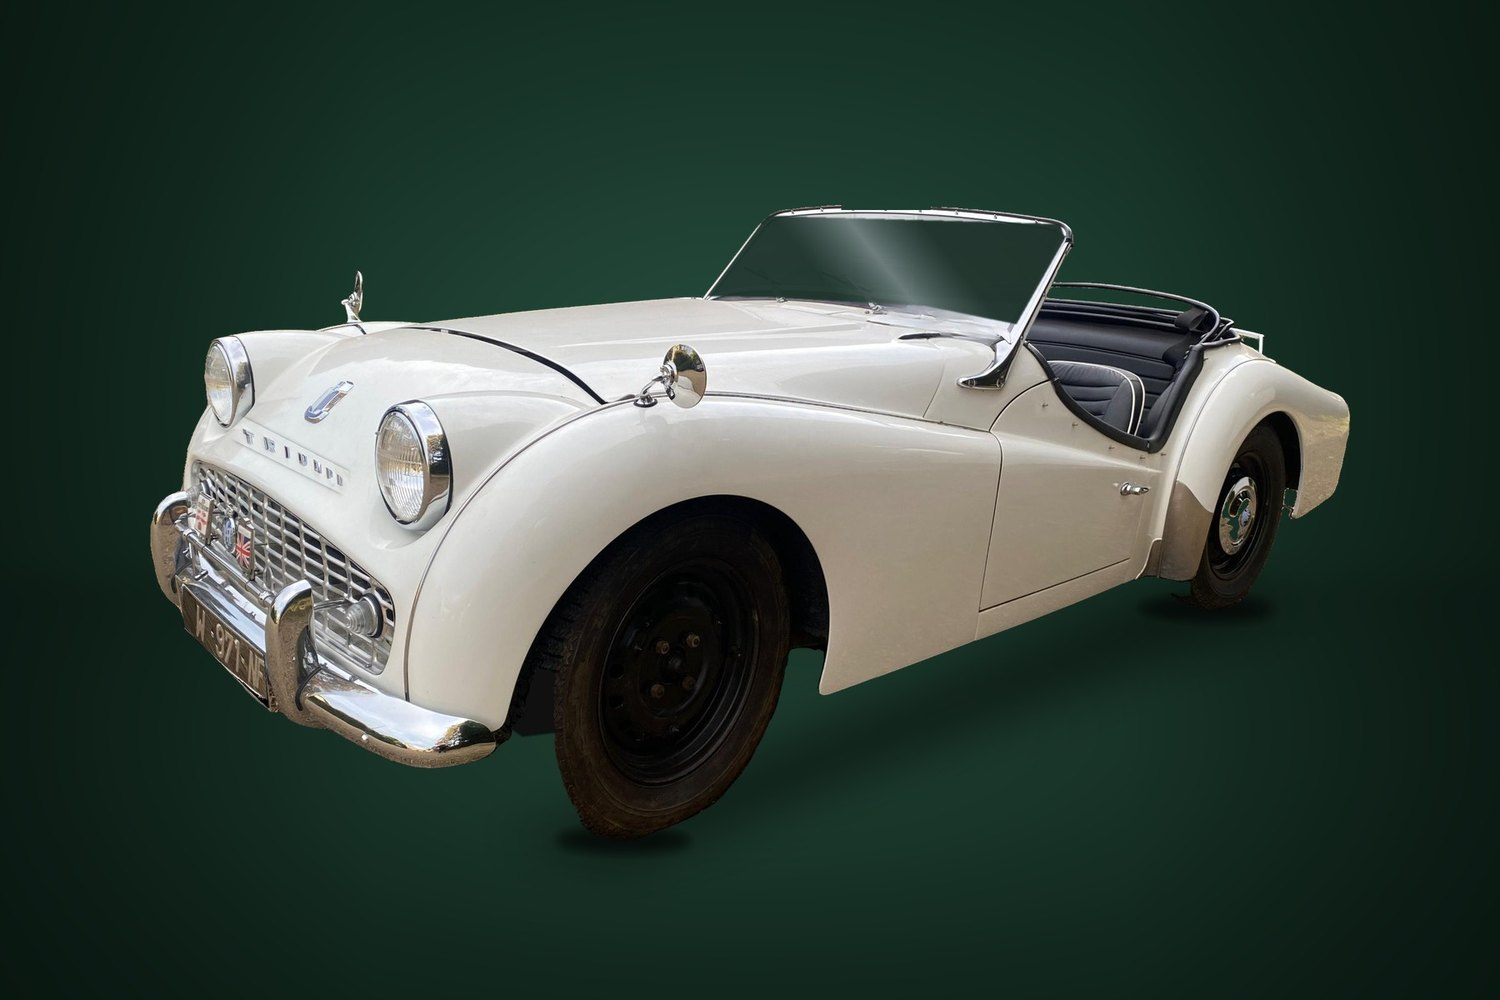
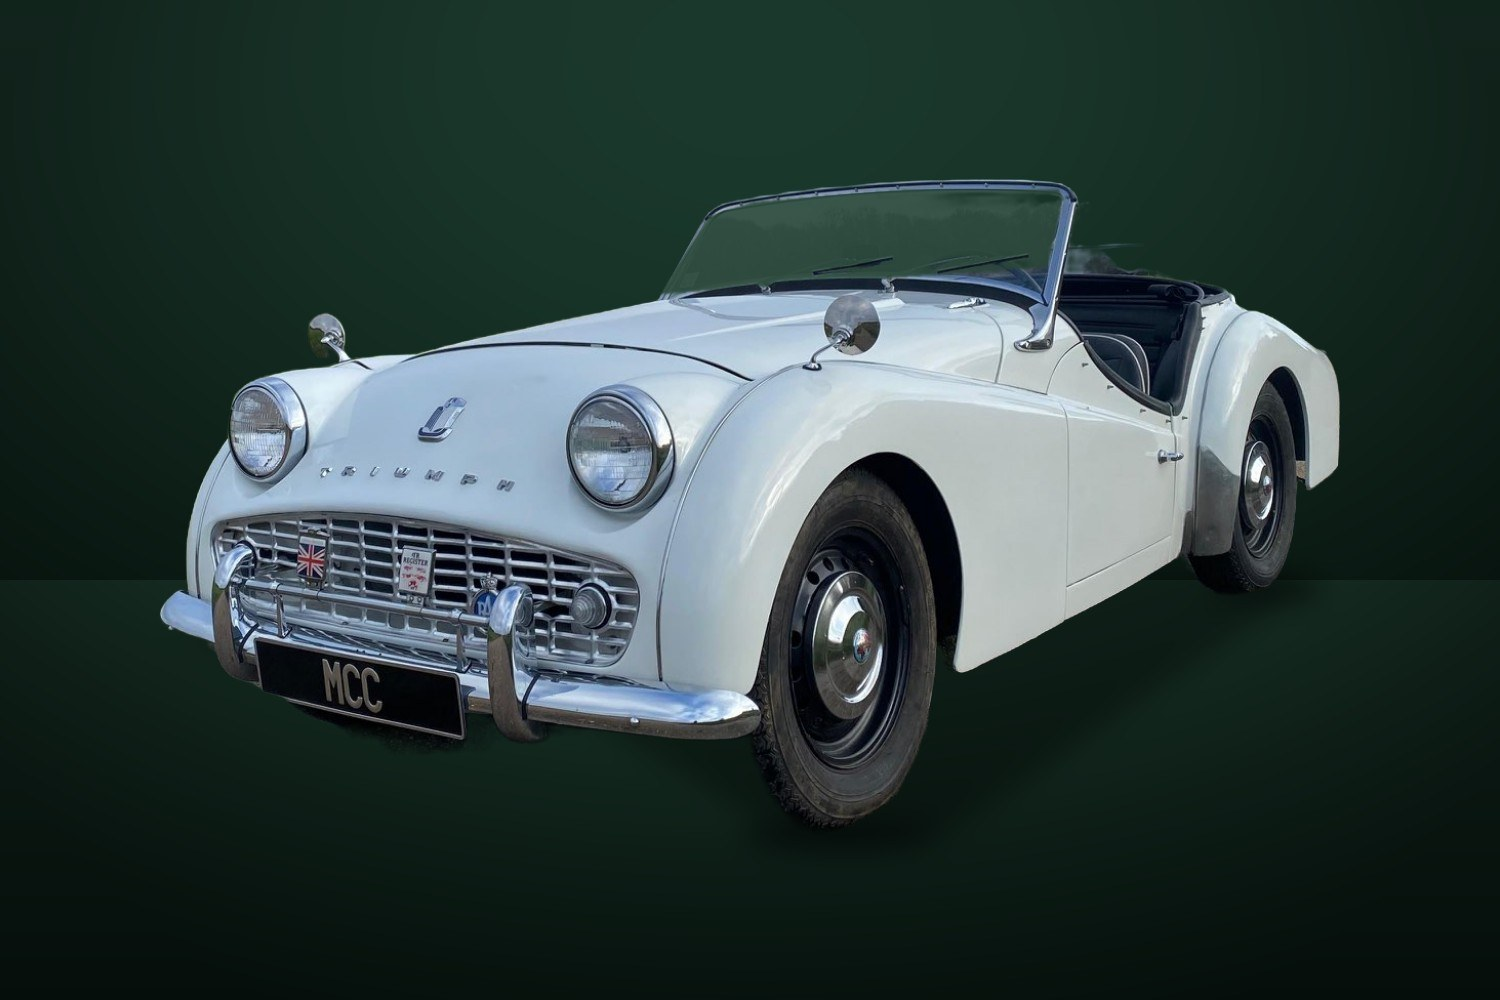
TR3 blanche : nouvelle vignette 3/4 avant gauche et galerie de 13 photos (novembre 2026)
Claude-Session: https://claude.ai/code/session_015zE2JJcQAjFe4sYX7qgBwn

diff --git a/index.html b/index.html
@@ -506,7 +506,15 @@ footer{border-top:1px solid rgba(168,123,79,.3)!important}
         "img/tr3b-2.jpg",
         "img/tr3b-3.jpg",
         "img/tr3b-4.jpg",
-        "img/tr3b-5.jpg"
+        "img/tr3b-5.jpg",
+        "img/tr3b-6.jpg",
+        "img/tr3b-7.jpg",
+        "img/tr3b-8.jpg",
+        "img/tr3b-9.jpg",
+        "img/tr3b-10.jpg",
+        "img/tr3b-11.jpg",
+        "img/tr3b-12.jpg",
+        "img/tr3b-13.jpg"
       ],
       "videos": [],
       "trad": {
